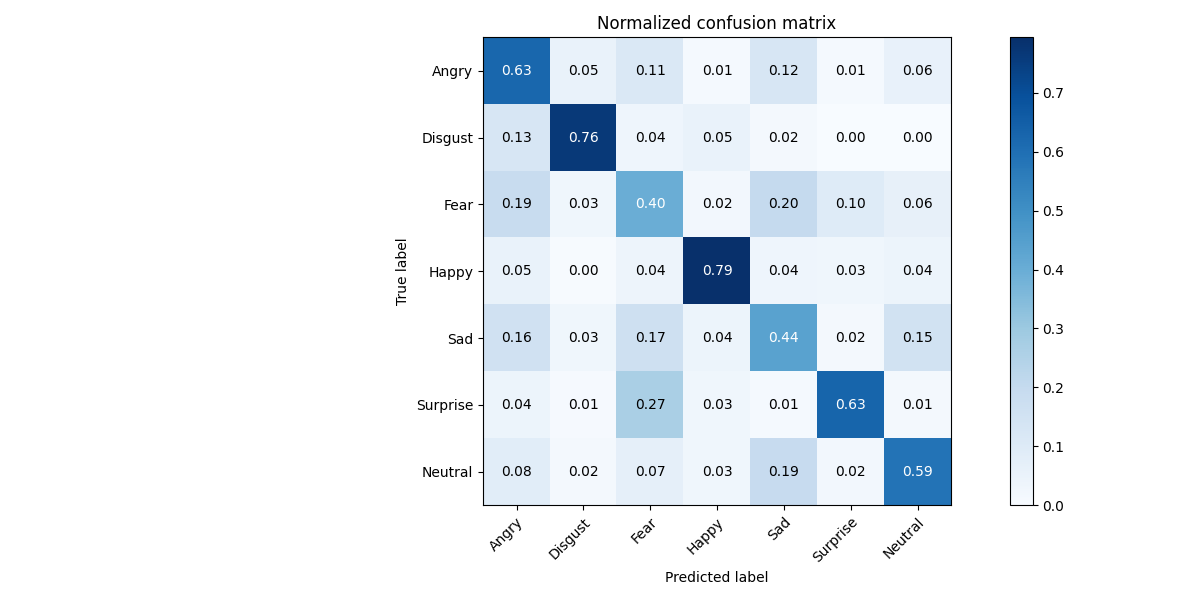
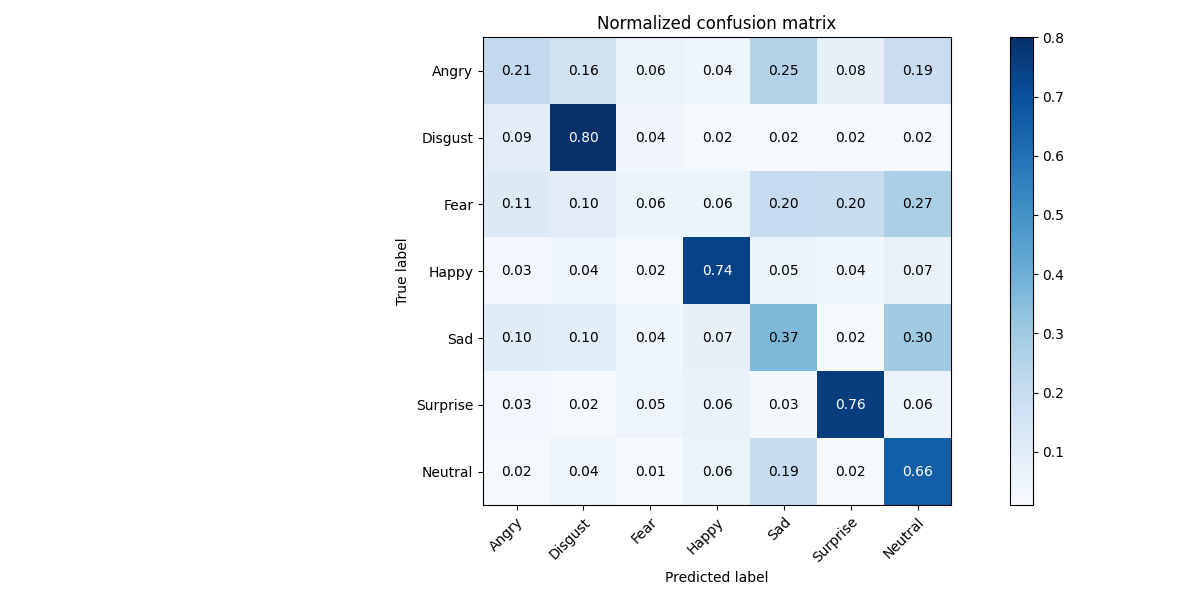
refactored

diff --git a/src/training.py b/src/training.py
@@ -9,6 +9,7 @@ from dataloader.fer2013dataloader import Fer2013BasicGenerator
 from mlxtend.plotting import plot_confusion_matrix
 from sklearn.metrics import classification_report, confusion_matrix
 
+#region Callsbacks
 earlystop = EarlyStopping(monitor="val_loss",
                         min_delta=0,
                         patience=10,
@@ -16,22 +17,22 @@ earlystop = EarlyStopping(monitor="val_loss",
                         restore_best_weights=True
                         )
 
-
 reduce_lr = ReduceLROnPlateau(monitor="val_loss",
                                 factor=0.2,
                                 patience=5,
                                 verbose=1,
                                 min_delta=0.0001)
 
-
 def get_tensorboard_cb():
     tbCallBack = tf.keras.callbacks.TensorBoard(log_dir=logdir, profile_batch=5, histogram_freq=1, write_graph=True, write_images=True)
     return tbCallBack
 
+#endregion
+
 def plot_confusion_matrix(y_true, y_pred, classes,
-                          normalize=False,
-                          title=None,
-                          cmap=plt.cm.Blues):
+                            normalize=False,
+                            title=None,
+                            cmap=plt.cm.Blues):
     """
     This function prints and plots the confusion matrix.
     Normalization can be applied by setting `normalize=True`.
@@ -44,15 +45,11 @@ def plot_confusion_matrix(y_true, y_pred, classes,
 
     # Compute confusion matrix
     cm = confusion_matrix(y_true, y_pred)
+
     # Only use the labels that appear in the data
     classes = classes
     if normalize:
         cm = cm.astype('float') / cm.sum(axis=1)[:, np.newaxis]
-        #print("Normalized confusion matrix")
-    #else:
-        #print('Confusion matrix, without normalization')
-
-    #print(cm)
 
     fig, ax = plt.subplots(figsize=(12,6))
     im = ax.imshow(cm, interpolation='nearest', cmap=cmap)
@@ -60,16 +57,16 @@ def plot_confusion_matrix(y_true, y_pred, classes,
     
     # We want to show all ticks...
     ax.set(xticks=np.arange(cm.shape[1]),
-           yticks=np.arange(cm.shape[0]),
-           # ... and label them with the respective list entries
-           xticklabels=classes, yticklabels=classes,
-           title=title,
-           ylabel='True label',
-           xlabel='Predicted label')
+        yticks=np.arange(cm.shape[0]),
+        # ... and label them with the respective list entries
+        xticklabels=classes, yticklabels=classes,
+        title=title,
+        ylabel='True label',
+        xlabel='Predicted label')
 
     # Rotate the tick labels and set their alignment.
     plt.setp(ax.get_xticklabels(), rotation=45, ha="right",
-             rotation_mode="anchor")
+            rotation_mode="anchor")
 
     # Loop over data dimensions and create text annotations.
     fmt = '.2f' if normalize else 'd'
@@ -94,40 +91,45 @@ def get_classweights(classes,normalize = False):
             class_weights[k] = class_weights[k]*factor
     return class_weights
 
-
+#region Setting
 class_labels = ["Angry", "Disgust", "Fear", "Happy", "Sad", "Surprise", "Neutral"]
 logdir = "./Graph"
 csv_path = "data/fer2013.csv"
 batch_size = 32
+#endregion
 
+# Dataloader: Loads and preprocesses image data to feed the neural network
 generator_constructor = Fer2013BasicGenerator(csv_path=csv_path, batch_size=batch_size, input_size=(48, 48, 1))
-training_generator, val_X, val_Y,test_X, test_Y = generator_constructor.get_generators()
 
+
+#We will use generators to feed the neural network
+training_generator, validation_generator, test_generator = generator_constructor.get_generators()
+
+# Setup Model
 model, modelname = EmotionVGGDefault.build(width=48, height=48, depth = 1, classes = 7,last_activation="sigmoid")
 model.compile(optimizer="adam",loss="binary_crossentropy", metrics="accuracy")
 
-# PREPARE TRAIN
+# PREPARE TRAINING
 ys = training_generator.y
 ys2 = np.argmax(ys, axis=1)
 class_weights_dict = get_classweights(ys2,normalize=False)
 STEP_SIZE_TRAIN= training_generator.n// training_generator.batch_size
-epochs = 30
+epochs = 10
 
 # TRAIN
 model.fit(training_generator,steps_per_epoch=STEP_SIZE_TRAIN,
-                                validation_data=(val_X, val_Y),
+                                validation_data=validation_generator,
                                 class_weight=class_weights_dict,
                                 epochs=epochs, 
                                 #callbacks=[get_tensorboard_cb(),earlystop,reduce_lr],
                                 verbose=1)
 
 # TEST
-pred = model.predict(test_X)
+pred = model.predict(test_generator)
 y_pred = np.argmax(pred, axis=1)
-y_true = np.argmax(test_Y, axis=1)
+y_true = np.argmax(test_generator.y, axis=1)
 matrix = confusion_matrix(y_true, y_pred)
 print("CNN Model Accuracy on test set: {:.4f}".format(accuracy_score(y_true, y_pred)))
 print(confusion_matrix(y_true, y_pred))
 print(classification_report(y_true, y_pred, target_names=class_labels))
 plot_confusion_matrix(y_true,y_pred,classes=class_labels,normalize=True)
-

diff --git a/src/dataloader/fer2013dataloader.py b/src/dataloader/fer2013dataloader.py
@@ -1,4 +1,5 @@
 import numpy as np
+from sklearn.utils import shuffle
 import tensorflow as tf
 import PIL
 from collections import Counter
@@ -11,9 +12,7 @@ import os
 
 class Fer2013BasicGenerator():
     
-    def __init__(self, csv_path,
-                 batch_size=32,
-                 input_size=(48, 48, 1),
+    def __init__(self, csv_path, batch_size=32, input_size=(48, 48, 1)):
         self.num_classes = 7 
         self.width= input_size[1] 
         self.height = input_size[0] 
@@ -27,15 +26,20 @@ class Fer2013BasicGenerator():
         self.data_test  = self.data[self.data['Usage']=='PrivateTest'].copy()
         print("train shape: {}, \nvalidation shape: {}, \ntest shape: {}".format(self.data_train.shape, self.data_val.shape, self.data_test.shape))
 
-    def preprocess(self, df, dataName):
+    def preprocess(self, df, data_name):
         df['pixels'] = df['pixels'].apply(lambda pixel_sequence: [int(pixel) for pixel in pixel_sequence.split()])
         data_X = np.array(df['pixels'].tolist(), dtype='float32').reshape(-1,self.width, self.height,1)/255.0   
         data_Y = np_utils.to_categorical(df['emotion'], self.num_classes)  
-        print(dataName, "_X shape: {}, ", dataName, "_Y shape: {}".format(data_X.shape, data_Y.shape))
+        print(data_name, "_X shape: {}, ", data_name, "_Y shape: {}".format(data_X.shape, data_Y.shape))
         return data_X, data_Y
 
 
     def get_generators(self):
+        """[summary]
+        Return 3 FER2013 Datagenerator. Training, Validation and Test
+        Returns:
+            [type]: [description]
+        """
         self.train_X, self.train_Y = self.preprocess(self.data_train, "train") #training data
         self.val_X, self.val_Y     = self.preprocess(self.data_val, "val") #validation data
         self.test_X, self.test_Y   = self.preprocess(self.data_test, "test") #test data
@@ -50,16 +54,27 @@ class Fer2013BasicGenerator():
                         zoom_range=.1,
                         horizontal_flip=True)   
 
-        self.trainflow = self.data_generator.flow(self.train_X, self.train_Y, 32) 
-        return self.trainflow, self.val_X,self.val_Y,self.test_X, self.test_Y
+        self.train_flow = self.data_generator.flow(self.train_X, self.train_Y, 32, shuffle=True)
+        self.validation_flow = self.data_generator.flow(self.train_X, self.train_Y, 32, shuffle=True) 
+        self.test_flow = self.data_generator.flow(self.test_X, self.test_Y, 1, shuffle=False) 
+        return self.train_flow, self.validation_flow, self.test_flow
 
 
     def get_classweights(self,normalize = False):
+        """[summary]
+        Return the classweights which play an important role for inbalanced datasets.
+        Use normalize to return values between 0 and 1, this will decreate the learning rate, this might help in some cases.
+        Args:
+            normalize (bool, optional): [description]. Defaults to False.
+
+        Returns:
+            [type]: [description]
+        """
         counter = Counter(self.classes)                          
         max_val = float(max(counter.values()))       
         class_weights = {class_id : max_val/num_images for class_id, num_images in counter.items()} 
        
-        if normalize:
+        if normalize:   
             factor=1.0/sum(class_weights.values())
             for k in class_weights:
                 class_weights[k] = class_weights[k]*factor

diff --git a/src/models/emotionvgg.py b/src/models/emotionvgg.py
@@ -1,10 +1,19 @@
-import tensorflow as tf
-from tensorflow.keras.layers import Activation, Input, Dense, Dropout, Flatten,AveragePooling2D, Convolution2D, MaxPooling2D, ZeroPadding2D, Conv2D, BatchNormalization, DepthwiseConv2D
-from tensorflow.keras.models import Sequential,Model
-from keras.layers.merge import concatenate
-from keras.layers import add
+from tensorflow.keras.layers import  Input, Dense, Dropout, Flatten, MaxPooling2D,  Conv2D, BatchNormalization
+from tensorflow.keras.models import Model
 
 def vgg_block(layer_in, n_filters, n_conv, activation="relu",kernel_initializer="he_normal"):
+	"""[summary]
+	Basic VGG Building Block
+	Args:
+		layer_in ([type]): [description]
+		n_filters ([type]): [description]
+		n_conv ([type]): [description]
+		activation (str, optional): [description]. Defaults to "relu".
+		kernel_initializer (str, optional): [description]. Defaults to "he_normal".
+
+	Returns:
+		[type]: [description]
+	"""
 	chanDim = -1
 	# add convolutional layers
 	for _ in range(n_conv):
@@ -15,9 +24,27 @@ def vgg_block(layer_in, n_filters, n_conv, activation="relu",kernel_initializer=
 	return layer_in
 
 class EmotionVGGDefault:
+	"""[summary]
+	Basic neural network vor 48x48x1 input images
+	Returns:
+		[type]: [description]
+	"""
 	@staticmethod
 	def build(width, height, depth, classes,activation="relu",kernel_initializer="he_normal",last_activation="softmax"):
-		# define model input
+		"""[summary]
+		Args:
+			width ([type]): [description]
+			height ([type]): [description]
+			depth ([type]): [description]
+			classes ([type]): [description]
+			activation (str, optional): [description]. Defaults to "relu".
+			kernel_initializer (str, optional): [description]. Defaults to "he_normal".
+			last_activation (str, optional): [description]. Defaults to "softmax".
+		Returns:
+			[type]: [description]
+		"""
+
+		# define model 
 		visible = Input(shape=(height, width, depth))
 		layer = vgg_block(visible, 32, 2,activation=activation,kernel_initializer=kernel_initializer)
 		layer = vgg_block(layer, 64, 2,activation=activation,kernel_initializer=kernel_initializer)
